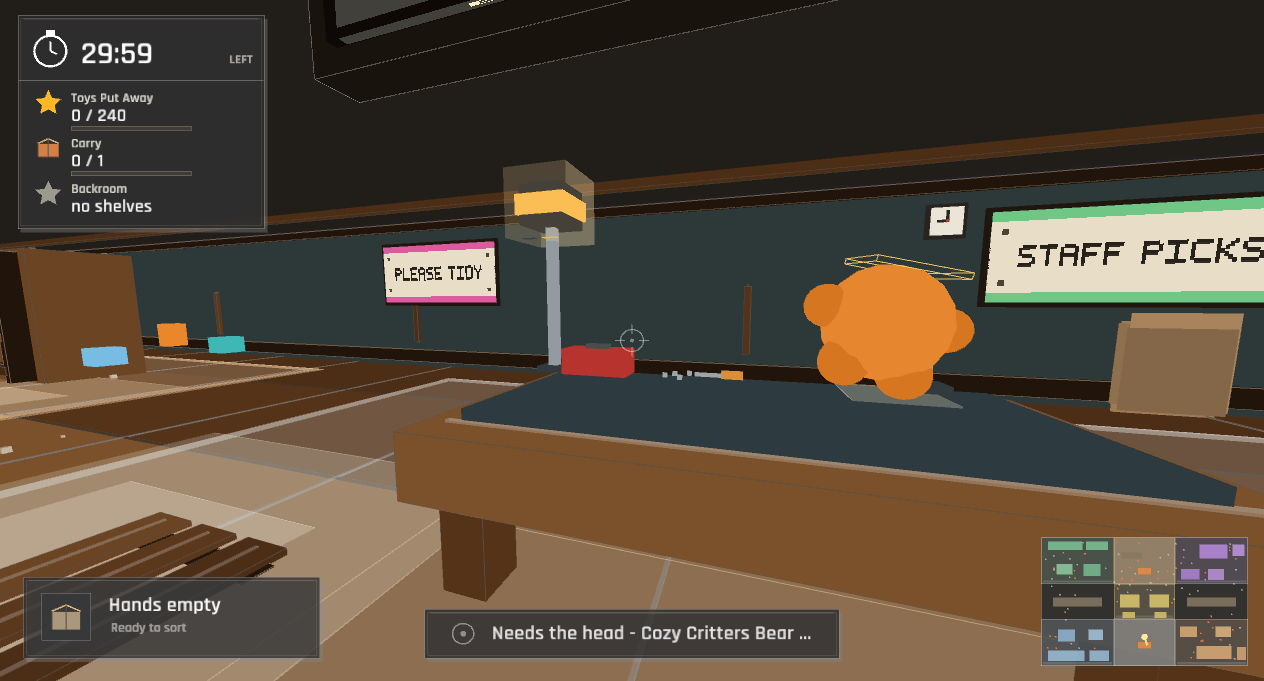
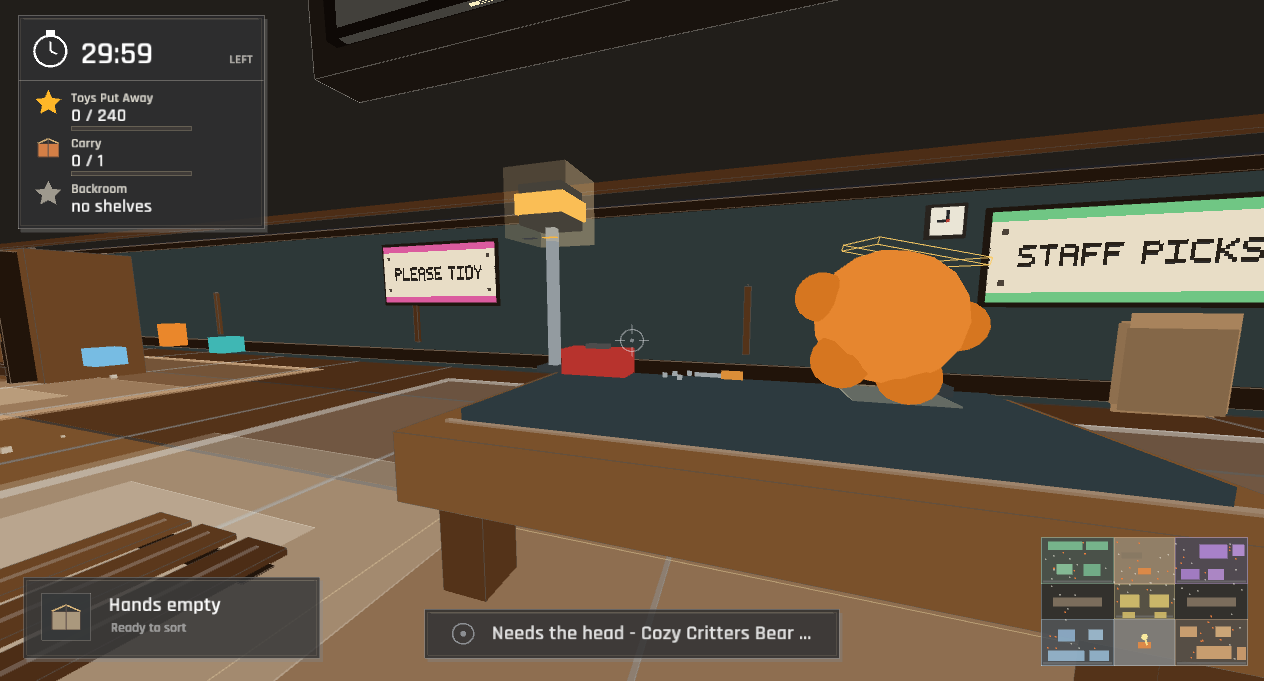
A bear's head was 17% bigger than its own body
repair_bench only ever showed AwaitingMatch, so the Ready stage -- green
beacon, "E Repair Cozy Critters Bear #01", the moment every repair passes
through -- had never been drawn. Capturing it showed the two halves at
visibly different sizes.

Loose toys get a size jitter off their index so a floor buried in them
does not read as a grid of identical objects. Benched parts were getting
it too, and the two halves of one toy have different indices: measured on
this pair, body 0.88 against head 1.03, and the formula spans 23%. The
bench is the one place two halves of the same object sit side by side at
arm's length, which is exactly where that variety reads as a mistake.

toy_draw_scale(index, on_bench) exempts benched parts -- the same shape
of exemption floor_lift already had two lines below it. The test pins
both directions: benched identical for every index, loose still varying
and still in range.

Also adds title_first_run, the title as a new player meets it (no save,
no records). Checked and correct: Continue renders clearly disabled and
the mode caption sits on its plate. Nothing to fix there.

Changed region(s): [[0.6171, 0.3392, 0.8022, 0.6167], [0.6171, 0.4934, 0.6479, 0.5551], [0.6479, 0.5551, 0.6788, 0.5859]]

diff --git a/src/capture_scenes.rs b/src/capture_scenes.rs
@@ -327,6 +327,72 @@ pub fn broken_lineup(data: &GameData) -> GameSession {
     session
 }
 
+/// The bench holding a matched pair: the moment the whole repair errand pays
+/// off, and the one bench stage a player meets on every single repair.
+/// `repair_bench` only ever showed `AwaitingMatch`, so the green beacon and the
+/// press-to-repair prompt had never been rendered.
+pub fn repair_bench_ready(data: &GameData) -> GameSession {
+    let bench = data.primary_bench();
+    let mut session = GameSession::new(data);
+    session.player.position = WorldPoint {
+        x: bench.x,
+        y: bench.y,
+    };
+
+    // Bench a body, then hunt down the head it was split from. Any other head
+    // is refused as a different break, which is the whole point of the stage
+    // below this one.
+    let benched_repair_id = session
+        .toys
+        .iter()
+        .position(|toy| toy.repair_part_kind() == Some(RepairPartKind::Body))
+        .and_then(|body_index| {
+            let repair_id = match &session.toys[body_index].repair_state {
+                RepairState::BrokenPart { repair_id, .. } => repair_id.clone(),
+                _ => return None,
+            };
+            session.pick_up_toy(body_index, data);
+            session.interact(data);
+            Some(repair_id)
+        })
+        .expect("a broken body to bench");
+
+    let counterpart = session
+        .toys
+        .iter()
+        .position(|toy| match &toy.repair_state {
+            RepairState::BrokenPart {
+                repair_id, part, ..
+            } => *part == RepairPartKind::Head && *repair_id == benched_repair_id,
+            _ => false,
+        })
+        .expect("the head it was split from");
+    // Carried to the bench by the player, so no walk is simulated.
+    session.toys[counterpart].position = session.player.position;
+    session.pick_up_toy(counterpart, data);
+    session.interact(data);
+
+    let bench_point = vec2(bench.x, bench.y);
+    session.toys.retain(|toy| {
+        toy.bench_slot_index.is_some()
+            || toy.position.to_vec2().distance(bench_point) > BENCH_CLEARANCE
+    });
+    let mut session = GameSession::from_save(session.to_save(&data.config.version), data);
+
+    session.player.position = WorldPoint {
+        x: bench.x,
+        y: bench.y - 1.45,
+    };
+    session.player.yaw = std::f32::consts::FRAC_PI_2 - 0.30;
+    session.player.pitch = -0.10;
+    assert_eq!(
+        session.bench_status(bench).stage,
+        crate::state::BenchStage::Ready,
+        "the bench is not holding a matched pair"
+    );
+    session
+}
+
 /// Shelve `share` of one display's matching toys, straight into their slots.
 fn stock_display(session: &mut GameSession, data: &GameData, display_index: usize, share: f32) {
     let display = &data.displays[display_index];

diff --git a/src/ui/scene3d.rs b/src/ui/scene3d.rs
@@ -73,7 +73,7 @@ fn draw_loose_toys(ctx: &UiContext<'_>) -> usize {
         } else {
             0.20 + layer * 0.020
         };
-        let scale = 0.88 + ((index * 13) % 9) as f32 * 0.025;
+        let scale = toy_draw_scale(index, toy.bench_slot_index.is_some());
         if distance > config.toy_lod_distance {
             // Stand-ins stay grounded: floor_lift only compensates for the
             // tumbled pose, and applying it to upright draws leaves distant
@@ -268,4 +268,53 @@ fn camera_basis(yaw: f32, pitch: f32) -> (Vec3, Vec3, Vec3) {
     let right = front.cross(world_up).normalize_or_zero();
     let up = right.cross(front).normalize_or_zero();
     (front, right, up)
+}
+
+/// How big to draw a loose toy, and why a benched part is exempt.
+///
+/// Toys on the floor get a little size variety off their index, so a shop
+/// buried in them does not read as a grid of identical objects. A part waiting
+/// on the repair bench must not: the two halves of one toy sit side by side
+/// there, at the only range in the game where a player studies them closely,
+/// and the jitter drew them up to 23% apart. A real pair measured 0.88 against
+/// 1.03 — a bear whose head is visibly too big for its own body, moments before
+/// you press `E` to join them.
+///
+/// Same shape of exemption as `floor_lift` just below: what makes a tumbled
+/// floor look alive makes a workbench look wrong.
+pub(crate) fn toy_draw_scale(index: usize, on_bench: bool) -> f32 {
+    if on_bench {
+        1.0
+    } else {
+        0.88 + ((index * 13) % 9) as f32 * 0.025
+    }
+}
+
+#[cfg(test)]
+mod tests {
+    use super::toy_draw_scale;
+
+    #[test]
+    fn two_halves_on_a_bench_are_drawn_the_same_size() {
+        // The pair this was found on: body at toy index 0, head at 195.
+        assert_eq!(toy_draw_scale(0, true), toy_draw_scale(195, true));
+        assert_ne!(
+            toy_draw_scale(0, false),
+            toy_draw_scale(195, false),
+            "the loose-toy jitter is what made them differ; keep it"
+        );
+
+        // No index escapes the rule, and the floor keeps its variety.
+        let benched: Vec<f32> = (0..500).map(|index| toy_draw_scale(index, true)).collect();
+        assert!(benched.iter().all(|scale| *scale == benched[0]));
+
+        let loose: Vec<f32> = (0..500).map(|index| toy_draw_scale(index, false)).collect();
+        let low = loose.iter().copied().fold(f32::MAX, f32::min);
+        let high = loose.iter().copied().fold(f32::MIN, f32::max);
+        assert!(low < high, "loose toys lost their size variety");
+        assert!(
+            (0.85..=1.10).contains(&low) && (0.85..=1.10).contains(&high),
+            "loose scales drifted out of range: {low}..{high}"
+        );
+    }
 }

diff --git a/src/game.rs b/src/game.rs
@@ -162,6 +162,17 @@ impl Game {
                 self.best_runs = capture_scenes::previous_best();
                 self.screen = GameScreen::Title;
             }
+            // The screen every new player actually meets first: no save to
+            // continue, no records to chase. `title` forces both on, so the
+            // disabled Continue button and the missing best-run line had never
+            // been drawn. `BestRuns::default()` explicitly rather than whatever
+            // `Game::new` loaded, so the capture does not depend on whether the
+            // machine running it has played the game.
+            "title_first_run" => {
+                self.has_save_file = false;
+                self.best_runs = BestRuns::default();
+                self.screen = GameScreen::Title;
+            }
             "mid_run" => {
                 self.session = capture_scenes::mid_run(&self.data);
                 self.screen = GameScreen::Playing;
@@ -238,6 +249,10 @@ impl Game {
             // pause menu. They are not one screen with a different heading: the
             // paused form adds Quit to Title and renames Back to Resume, so its
             // second row is laid out to a different width.
+            "repair_bench_ready" => {
+                self.session = capture_scenes::repair_bench_ready(&self.data);
+                self.screen = GameScreen::Playing;
+            }
             "settings" => {
                 self.settings_from_game = false;
                 self.screen = GameScreen::Settings;

diff --git a/CLAUDE.md b/CLAUDE.md
@@ -34,6 +34,6 @@ Single-loop macroquad game; no state-machine enum of separate state structs. Ins
 - Saves use toolkit slot persistence with version migration: `migrate_save_value` in `state.rs` upgrades old save JSON. New fields on `ToyState`/`PlayerState`/`SaveData` need `#[serde(default)]` (or a migration step) so existing saves keep loading.
 - `asset_packs.json` makes the publish pipeline zip `assets/` into `assets.zip`; the game loads via `AssetPack` with a loose-file fallback, so `cargo run` from source works without the pack.
 - The WebGL shell is **generated**, not kept here: `publish.ps1` renders the shared `web/index.template.html` against this project's root `game_page.json` (title, prose, controls, details). Edit `game_page.json`, never a per-game `index.html`. `storage.js` — the localStorage bridge for toolkit persistence in WASM — is deployed once to `shared-assets/runtime/` and referenced from there; the deployed page carries no per-game copy. `dist/` holds built artifacts.
-- Screenshot harness (`TOYBOX_CAPTURE_*`): scenes `toy_gallery` (one toy from front/right/back/left, selected via `TOYBOX_CAPTURE_TOY=<module slug>`), `gameplay`, `title` (the mode buttons and the caption distinguishing them), `repair_bench` (a bench holding one half of a broken toy, for the status beacon and the awaiting-match prompt), `mid_run` (one aisle shelved, another half done, for the HUD/minimap completion readouts — a fresh shop reads 0% everywhere and shows nothing), `closing_soon` (`mid_run` with 44s left, for the countdown and its red warning tint — a fresh shop shows a full clock in the neutral colour), `shift_over` (the score screen after the clock won, with aisles part-done — a fresh `TimeUp` session scores every row zero and proves nothing about layout), `broken_lineup` (six broken halves of different identities in a row, to compare the per-identity part accents; `TOYBOX_CAPTURE_PART_CATEGORY=plushies|dragons|robots|board_games|blocks` picks the category, since a plush head and a block top share no features to compare, and `TOYBOX_CAPTURE_PART_KIND=body` shows the other half — bodies are half the models the accents touch and had never been looked at), `carrying_armful` (a full Sorting Trolley: the `Q` cycle keycap and the row of carry pips only appear above a carry limit of one, so every other scene shows the carried card in its single-toy form), `carrying_a_half` and `carrying_a_half_scanned` (the two repair-hint tiers side by side — every other scene either carries a whole toy or owns the scanner, so neither hint appears), `tool_shop` (every row affordable) and `tool_shop_early` (two aisles done, the scanner bought — the owned, unaffordable and locked rows a player actually meets, since by the time everything is affordable the shift is nearly over), `checkout` (till clutter plus the night sky through the shopfront glass), `store_restored` (the *other* ending — every display filled, so the score screen's green "Store Restored" branch, the `S` badge and the "New best" line; won honestly by mending every pair then stocking every display, and asserted to reach `GamePhase::Finished`), `relaxed_run` (`mid_run` in the other shift mode, for the clock counting up and its `ELAPSED` caption — every other scene is a timed shift), `settings` and `paused` (the same panel from the title and from mid-shift — the paused form adds Quit and renames Back to Resume, so its second row is laid out to a different width), and `lamp_contrast` (stands under a pendant lamp looking straight down — a diagnostic framing, because a lamp's floor pool is hidden behind a display fixture from anywhere further back). `.\scripts\capture_toys.ps1` sweeps every toy into `docs\verification\toys\<toy>.png` (`-Toys a,b` to filter, `-SkipBuild` to reuse the build). The toy list comes from the `ToyIdentity::X => x::draw` dispatch in `src\toys.rs`, not from listing `src\toys\*.rs` minus a denylist of helper modules — that denylist went stale the moment `part_accents.rs` landed, and the sweep captured a bear captioned "UNKNOWN TOY" and reported it as ok. Re-run the sweep after touching any toy renderer; the committed gallery is a reference and goes quietly stale otherwise.
-- `.\scripts\check-captures.ps1` re-captures all 68 references — 18 scenes and the 50-toy gallery — into `dist\capture-check` and reports which committed images no longer match, without overwriting any of them; non-zero exit on drift. Run it after touching a renderer or the HUD; the committed gallery otherwise goes stale silently, which it did for three weeks. `-ScenesOnly` skips the 50 toy launches, `-SkipBuild` reuses the last builds (note that this then compares against whatever the *binary* last built, not the source). Drift is a **percentage of differing pixels**, not a hash, and the two sets get different thresholds because only one is byte-reproducible: scenes 0.1% (two of them wobble ~0.05% on anti-aliased text edges), toys 0.01% (they are exact, and moving one primitive in the bear by 0.06 registers as 0.179%). Needs Python with Pillow. **The scene gate does not catch everything, by construction:** adding one 12px caption to the status panel changed eight scenes by 0.019% each — real, deliberate, and below the 0.1% threshold, which cannot be lowered past the ~0.055% noise floor. So after a HUD change, re-capture every scene that draws the surface you touched rather than waiting for the check to name them; the check is a backstop against forgetting, not a list of what changed.
+- Screenshot harness (`TOYBOX_CAPTURE_*`): scenes `toy_gallery` (one toy from front/right/back/left, selected via `TOYBOX_CAPTURE_TOY=<module slug>`), `gameplay`, `title` (the mode buttons and the caption distinguishing them), `title_first_run` (the same screen as a new player meets it — no save, no records, so the disabled Continue button and the absent best-run line), `repair_bench` (a bench holding one half of a broken toy, for the status beacon and the awaiting-match prompt), `repair_bench_ready` (both halves of the *same* toy benched — the green beacon and the press-to-repair prompt, the one stage every repair passes through), `mid_run` (one aisle shelved, another half done, for the HUD/minimap completion readouts — a fresh shop reads 0% everywhere and shows nothing), `closing_soon` (`mid_run` with 44s left, for the countdown and its red warning tint — a fresh shop shows a full clock in the neutral colour), `shift_over` (the score screen after the clock won, with aisles part-done — a fresh `TimeUp` session scores every row zero and proves nothing about layout), `broken_lineup` (six broken halves of different identities in a row, to compare the per-identity part accents; `TOYBOX_CAPTURE_PART_CATEGORY=plushies|dragons|robots|board_games|blocks` picks the category, since a plush head and a block top share no features to compare, and `TOYBOX_CAPTURE_PART_KIND=body` shows the other half — bodies are half the models the accents touch and had never been looked at), `carrying_armful` (a full Sorting Trolley: the `Q` cycle keycap and the row of carry pips only appear above a carry limit of one, so every other scene shows the carried card in its single-toy form), `carrying_a_half` and `carrying_a_half_scanned` (the two repair-hint tiers side by side — every other scene either carries a whole toy or owns the scanner, so neither hint appears), `tool_shop` (every row affordable) and `tool_shop_early` (two aisles done, the scanner bought — the owned, unaffordable and locked rows a player actually meets, since by the time everything is affordable the shift is nearly over), `checkout` (till clutter plus the night sky through the shopfront glass), `store_restored` (the *other* ending — every display filled, so the score screen's green "Store Restored" branch, the `S` badge and the "New best" line; won honestly by mending every pair then stocking every display, and asserted to reach `GamePhase::Finished`), `relaxed_run` (`mid_run` in the other shift mode, for the clock counting up and its `ELAPSED` caption — every other scene is a timed shift), `settings` and `paused` (the same panel from the title and from mid-shift — the paused form adds Quit and renames Back to Resume, so its second row is laid out to a different width), and `lamp_contrast` (stands under a pendant lamp looking straight down — a diagnostic framing, because a lamp's floor pool is hidden behind a display fixture from anywhere further back). `.\scripts\capture_toys.ps1` sweeps every toy into `docs\verification\toys\<toy>.png` (`-Toys a,b` to filter, `-SkipBuild` to reuse the build). The toy list comes from the `ToyIdentity::X => x::draw` dispatch in `src\toys.rs`, not from listing `src\toys\*.rs` minus a denylist of helper modules — that denylist went stale the moment `part_accents.rs` landed, and the sweep captured a bear captioned "UNKNOWN TOY" and reported it as ok. Re-run the sweep after touching any toy renderer; the committed gallery is a reference and goes quietly stale otherwise.
+- `.\scripts\check-captures.ps1` re-captures all 70 references — 20 scenes and the 50-toy gallery — into `dist\capture-check` and reports which committed images no longer match, without overwriting any of them; non-zero exit on drift. Run it after touching a renderer or the HUD; the committed gallery otherwise goes stale silently, which it did for three weeks. `-ScenesOnly` skips the 50 toy launches, `-SkipBuild` reuses the last builds (note that this then compares against whatever the *binary* last built, not the source). Drift is a **percentage of differing pixels**, not a hash, and the two sets get different thresholds because only one is byte-reproducible: scenes 0.1% (two of them wobble ~0.05% on anti-aliased text edges), toys 0.01% (they are exact, and moving one primitive in the bear by 0.06 registers as 0.179%). Needs Python with Pillow. **The scene gate does not catch everything, by construction:** adding one 12px caption to the status panel changed eight scenes by 0.019% each — real, deliberate, and below the 0.1% threshold, which cannot be lowered past the ~0.055% noise floor. So after a HUD change, re-capture every scene that draws the surface you touched rather than waiting for the check to name them; the check is a backstop against forgetting, not a list of what changed.
 - `.\scripts\capture_scene.ps1` captures the whole-store scenes into `docs\verification\ui_<scene>.png`. It is a thin wrapper over the shared `..\macroquad-toolkit\scripts\capture_ui.ps1`, passing `-Release` (a debug capture at ~4500 toys takes minutes and in practice never finishes) and `-Prefix TOYBOX` (the shared script would otherwise derive `TOYBOX_AFTER_HOURS` from the package name, the capture vars would not match, and the exe would launch as a normal game that never exits). Scenes are staged in `src/capture_scenes.rs`, which sweeps the floor around the fixture under test so it is not buried in loose toys.

diff --git a/TODO.md b/TODO.md
@@ -42,11 +42,14 @@
 
 - **Screenshot captures were not reproducible, which is why staleness could only ever be caught by eye.** The harness simulates a fixed number of frames at a fixed timestep precisely so a capture repeats — but four `get_time()` calls (a lamp breathing, dust motes, completion sparkles, the scanner beacon) read macroquad's wall clock, so the animation phase depended on how long the process took to reach the capture frame. The same scene captured twice differed in bytes, so no drift check could ever tell a stale reference image from a fresh one. `ui::animation_seconds()` now accumulates the same `dt` the simulation gets; `rendering_animates_off_the_simulation_clock` keeps the wall clock out of `src/ui` and `src/toys`.
   - Seven of nine scenes went from varying to byte-identical across repeated captures. **Two still vary** — `mid_run` and `carrying_a_half_scanned` — by ~109 pixels out of 860,784 (0.013%), confined to anti-aliased text edges in the HUD panel, with channel deltas up to 39/255. Nothing in this repo reads a clock any more, the spatial grid sorts so draw order is fixed, and raising the capture from 30 to 150 frames does not settle it — so it is not animation phase and not a framebuffer settle-in. It looks like font-atlas rasterisation in the shared toolkit; still unproven, but no longer in the way.
-- **Capture drift is detectable now: `.\scripts\check-captures.ps1`.** It re-captures all 68 references — the 18 scenes *and* the 50-toy gallery whose staleness started this — into gitignored `dist\capture-check`, compares against the committed images without overwriting them, and exits non-zero on drift. A hash cannot work for the scenes because of the wobble above, so it measures the **percentage of differing pixels**, which separates the failure modes cleanly: noisy scenes read 0.001–0.055%, everything else reads 0.000%, and a genuinely stale reference measured **3.159%** — the check caught one on its first run, an image accidentally left behind from a 150-frame experiment.
+- **Capture drift is detectable now: `.\scripts\check-captures.ps1`.** It re-captures all 70 references — the 20 scenes *and* the 50-toy gallery whose staleness started this — into gitignored `dist\capture-check`, compares against the committed images without overwriting them, and exits non-zero on drift. A hash cannot work for the scenes because of the wobble above, so it measures the **percentage of differing pixels**, which separates the failure modes cleanly: noisy scenes read 0.001–0.055%, everything else reads 0.000%, and a genuinely stale reference measured **3.159%** — the check caught one on its first run, an image accidentally left behind from a 150-frame experiment.
   - The two sets get different thresholds because only one is byte-reproducible. Scenes: 0.1%. Toys: **0.01%**, since they are exact and the tighter gate buys real sensitivity — a controlled test moving one primitive in the bear's model by 0.06 registers as 0.179%, which a 0.1% gate only just catches. Verified both ways: the perturbed bear was flagged while the untouched octopus read 0.000%, and it went green again once reverted.
 - **The 50-toy reference gallery was three weeks stale, and the sweep that refreshes it had gone blind.** Every image in `docs/verification/toys/` dated from before two commits that touched the toy renderers, so all fifty differed from what the game draws. Worse, `capture_toys.ps1` built its list by listing `src/toys/*.rs` and subtracting a hardcoded denylist of helper modules — adding `part_accents.rs` made it sweep a non-toy, and the harness dutifully rendered a bear captioned "UNKNOWN TOY" which the script reported as ok, 52/52. The list now derives from the `ToyIdentity::X => x::draw` dispatch, so helpers are excluded for free and a new toy is picked up once it can actually be drawn. All fifty re-swept; spot-checked across plushies, board games, robots and dragons, and nothing was broken — only out of date.
 - **Broken *bodies* had ears.** The lineup scene only ever forced heads, so the five body renderers — half of everything `part_accents.rs` touches — had never been seen. They were drawing the same crest, which put rabbit ears and antennae on a headless torso, floating above the neck stump. A crest is a head feature; bodies now vary their own limbs by the same `accent_scale` instead (chunkier on an Elephant, compact on a Cat), which is a body-shaped cue and keeps head and body visibly different halves. `crest_scale` renamed to `accent_scale` to match what it now drives, and `TOYBOX_CAPTURE_PART_KIND=body` makes the other half capturable.
 - **Two HUD faults found by capturing the scenes nobody had looked at.** `checkout` showed a zone with no displays drawing a *full* progress bar under the words "no shelves" — `fraction()` returns 1.0 there so aggregates do not treat an empty zone as outstanding work, but rendered as a meter it claims a finished aisle. No bar is drawn now. `lamp_contrast` showed "Dragon Alcove - 7 to mend" spilling past the panel edge onto the shop floor: the label suffix added with the repair count only ever fit because "Plush Corner" is short. The panel widened to 250 and the label is fitted, so a longer zone name truncates inside the box instead of escaping it.
+- **A bear's head was 17% bigger than its own body, on the bench where you join them.** Loose toys get a size jitter off their index (`0.88 + (index*13 % 9) * 0.025`) so a floor buried in them does not read as a grid of identical objects. Benched parts were getting it too — and the two halves of one toy have different indices, so they land anywhere up to 23% apart. Measured on the pair the scene picked: body **0.88**, head **1.03**. The repair bench is the one place in the game where two halves of the same object sit side by side at arm's length, which is exactly where the variety that flatters a floor reads as a mistake. `toy_draw_scale(index, on_bench)` now exempts benched parts, the same shape of exemption `floor_lift` already had two lines below it. `two_halves_on_a_bench_are_drawn_the_same_size` pins both directions — benched parts identical for every index, loose ones still varying and still in range.
+  - Found by capturing `repair_bench_ready`. `repair_bench` only ever showed `AwaitingMatch` (one half waiting), so the **Ready** stage — green beacon, "E Repair Cozy Critters Bear #01", the moment every single repair passes through — had never been drawn. The scene benches a body, then hunts down the head it was actually split from, since any other head is refused as a different break; it asserts the bench reaches `BenchStage::Ready` rather than trusting the staging.
+- **The title screen a new player actually meets: correct, nothing to fix.** `title` forces `has_save_file` on and hands out a fake record, so the genuine first launch — Continue disabled, no best-run line — had never been rendered. `title_first_run` sets `BestRuns::default()` explicitly rather than whatever `Game::new` loaded, so the capture does not depend on whether the machine running it has played the game. Both details check out: Continue renders a grey desaturated face and grey text against the black enabled buttons, and the mode caption does sit on its dark plate.
 - **Winning had never been rendered, and the win screen congratulated you on the wrong shop.** `shift_over` is the clock beating the player; the score screen has a whole second branch — green accent, "Store Restored", a different footer, every aisle row in its restored colour — that nothing had ever drawn. Its footer read **"The snow globe shop is ready for sunrise."** `snow` appeared exactly once in the entire repo, in that string: stray text from another game, sitting on the payoff for a twenty-five minute perfect shift. Now "Every toy is home before the doors open.", which pairs with the losing line's "Opening time caught up with you."
   - The `store_restored` scene wins the *honest* way rather than forcing the phase: every broken pair is mended, then every display stocked to capacity, and `GamePhase::Finished` falls out of the last placement as it does in play. It asserts that, so a config where the shop cannot be finished fails the capture rather than quietly producing a screenshot of a lie.
   - Set flawless, so the badge shows **`S`** — a grade that exists only for a clear with no wrong shelves and had never been drawn either. `shift_over` already covers the `A` band and a nonzero mistake count.
